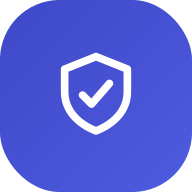
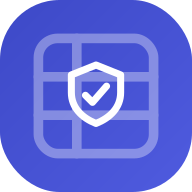
feat(push): знак Бюро подложкой под символом события, значок в шторке по поводу
В иконке был только символ события, и принадлежность к бюро по ней не читалась.
Теперь под символом лежит знак из шапки системы: сайт узнаётся, повод виден.
Значок строки состояния тоже стал своим на каждый повод - раньше все
уведомления выглядели там одинаково, пока не развернёшь.

Changed region(s): [[0.1562, 0.1562, 0.8438, 0.8438], [0.5312, 0.4688, 0.5625, 0.5]]

diff --git a/frontend/public/sw.js b/frontend/public/sw.js
@@ -53,6 +53,15 @@ function iconForType(type) {
   return name ? `/notification-icon-${name}.png` : '/notification-icon.png';
 }
 
+// Значок строки состояния тоже свой на каждый повод: до этого он был один, и в шторке
+// все уведомления выглядели одинаково, пока их не развернёшь. Знака Бюро в нём нет и
+// быть не может - значок монохромный и размером с букву, двум символам там не разойтись,
+// поэтому принадлежность к системе несёт крупная картинка, а значок - повод.
+function badgeForType(type) {
+  const name = TYPE_ICONS[type];
+  return name ? `/notification-badge-${name}.png` : '/notification-badge.png';
+}
+
 self.addEventListener('push', (event) => {
   let payload;
   try {
@@ -77,16 +86,15 @@ self.addEventListener('push', (event) => {
   const tag = payload.application_id
     ? `app-${payload.application_id}-${payload.type || 'event'}`
     : undefined;
-  // Две РАЗНЫЕ картинки, и путать их нельзя. icon - крупная, в теле уведомления;
-  // раньше здесь стоял icon.jpg: 185 КБ и 1129x1129 с подписью «Остров мечты»,
-  // которую система ужимает до нескольких десятков точек в нечитаемое пятно.
-  // badge - монохромный значок в строке состояния Android; без него там рисуется
-  // значок браузера, а не наш. Форма badge важна, цвет нет - система красит его
-  // сама, поэтому файл белый на прозрачном.
+  // Две РАЗНЫЕ картинки, и путать их нельзя. icon - крупная, в теле уведомления:
+  // на ней знак Бюро подложкой и символ события поверх, чтобы читались и отправитель,
+  // и повод. badge - монохромный значок в строке состояния Android; там помещается
+  // только символ события, а цвет не важен - система красит значок сама, поэтому файл
+  // белый на прозрачном.
   const options = {
     body: payload.message || '',
     icon: iconForType(payload.type),
-    badge: '/notification-badge.png',
+    badge: badgeForType(payload.type),
     tag,
     renotify: Boolean(tag),
     data: { url },

diff --git a/frontend/src/__tests__/serviceWorkerPush.spec.js b/frontend/src/__tests__/serviceWorkerPush.spec.js
@@ -142,11 +142,14 @@ describe('service worker: показ push-уведомления', () => {
     ['application_question', '/notification-icon-question.png'],
     ['password_changed', '/notification-icon-security.png'],
     ['news_published', '/notification-icon-content.png'],
-  ])('тип %s получает свою картинку', (type, expected) => {
+  ])('тип %s получает свою картинку и свой значок', (type, expected) => {
     sw.listeners.push(pushEvent({ title: 'T', type }));
 
     const [, options] = sw.showNotification.mock.calls[0];
     expect(options.icon).toBe(expected);
+    // Значок строки состояния тоже свой: иначе в шторке все уведомления
+    // выглядят одинаково, пока их не развернёшь.
+    expect(options.badge).toBe(expected.replace('notification-icon-', 'notification-badge-'));
   });
 
   it('незнакомый тип получает общий знак системы, а не пустоту', () => {
@@ -154,6 +157,7 @@ describe('service worker: показ push-уведомления', () => {
 
     const [, options] = sw.showNotification.mock.calls[0];
     expect(options.icon).toBe('/notification-icon.png');
+    expect(options.badge).toBe('/notification-badge.png');
   });
 
   it('worker забирает управление сразу, не дожидаясь закрытия вкладок', async () => {
